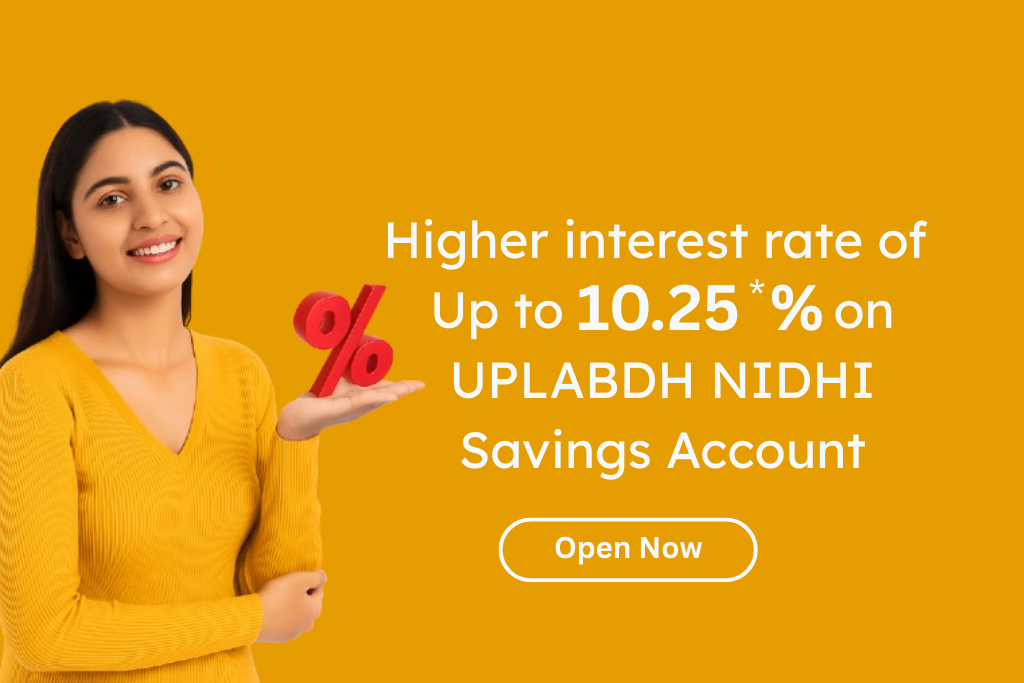
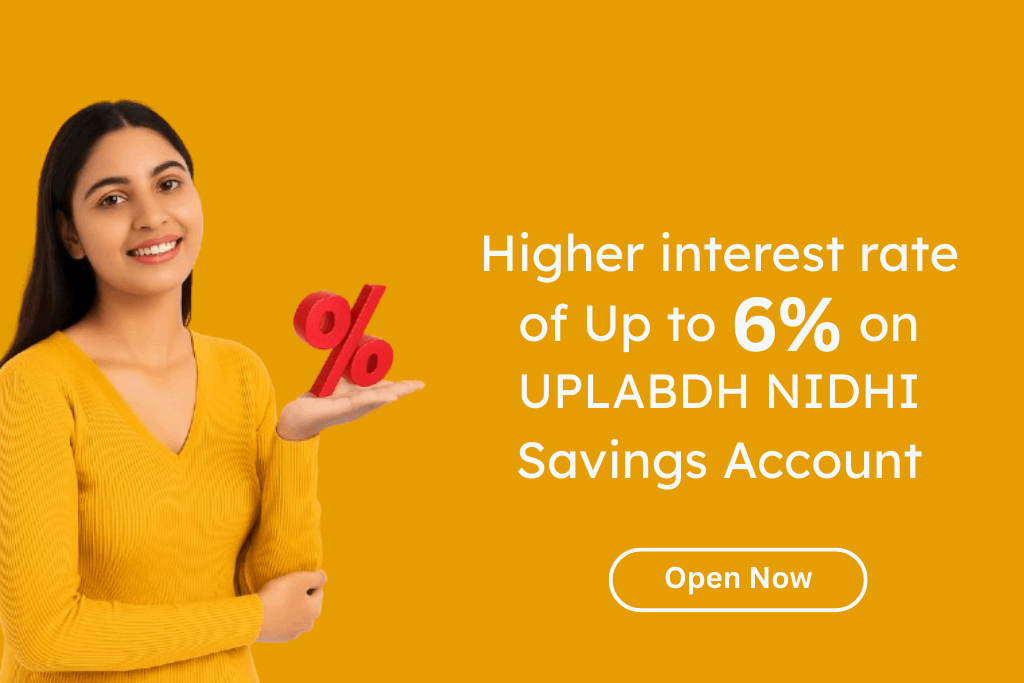
changes

diff --git a/about.html b/about.html
@@ -111,54 +111,6 @@
         <!-- Page Content -->
         <!-- ======= About Us Page ======= -->
 
-
-        <!-- Intro Section -->
-
-
-        <section class="page-header d-flex align-items-center d-none">
-
-            <div class="container">
-                <div class="container pb-4">
-                    <div class="row justify-content-center">
-                        <div class="col-lg-8 text-center">
-                            <h2>What our leader says</h2>
-
-                        </div>
-                    </div>
-                </div>
-                <div class="row justify-content-center align-items-center align-items-center">
-                    <div class="col-md-7 col-lg-5">
-                        <div class="content-container">
-                            <p style="font-style: italic;">"Courage taught me no matter how bad a crisis gets ... any sound
-                                investment will eventually pay off."</p>
-                            <div class="leaderText fw-bold d-lg-block d-none">
-                                <p class="mb-0">Dr. Ram Rekha Nandlal Wadhwa</p>
-                                <p class="mb-0 text-muted">C.E.O.& Director</p>
-    
-                            </div>
-
-                        </div>
-                    </div>
-                    <div class="col-md-6 col-lg-3 text-center">
-                        <div class="img-container">
-                            <div class="img-box ps-1 " style="background-color: var(--accent-color); border-radius: 50%;">
-                                <img src="assets/img/Ram-Wadhwa.jpg" class="img-fluid">
-    
-                            </div>
-
-                        </div>
-
-                    </div>
-
-                    <div class="leaderText fw-bold d-lg-none text-center mt-3">
-                        <p class="mb-0">Dr. Ram Rekha Nandlal Wadhwa</p>
-                        <p class="mb-0 text-muted">C.E.O.& Director</p>
-
-                    </div>
-
-                </div>
-            </div>
-        </section><!-- End Intro Section -->
    <!-- About Section -->
     <section id="about" class="about section">
       <div class="container" data-aos="fade-up" data-aos-delay="100">

diff --git a/net-banking.html b/net-banking.html
@@ -165,15 +165,18 @@
         <div class="login-box">
             <!-- Left -->
             <div class="login-left">
-                <img src="assets/img/Uplabdh--logo.png" class="img-fluid mb-3" style="max-width: 135px;">
+                <a href="index.html">
+                    <img src="assets/img/Uplabdh--logo.png" class="img-fluid mb-3" style="max-width: 135px;">
+
+                </a>
                 <h2>Login</h2>
 
-                <form>
-                    <label for="customer-id">Customer ID</label>
-                    <input type="text" id="customer-id" class="form-control" placeholder="Enter your Customer ID">
+                 <form>
+                    
+                    
 
-                    <label for="username">Username</label>
-                    <input type="text" id="username" class="form-control" placeholder="Enter your username">
+                    <label for="username">Mobile Number</label>
+                    <input type="text" id="username" class="form-control" placeholder="Enter 10 digits mobile no.">
 
                     <label for="password">Password</label>
                     <input type="password" id="password" class="form-control" placeholder="Enter your password">
@@ -185,15 +188,12 @@
                     </div>
 
                     <button class="btn btn-login">Login</button>
-                    <div class="forgot-links mt-3">
-                        <a href="forgot.html">Forgot User Name?</a>
-                        <a href="forgot.html">Forgot Password?</a>
-                    </div>
+                    
                     <div class="mt-3 text-center">
-                        <p class="mb-0">First Time User? <a href="openingAccount.html" class="text-secondary">Register
-                                Now</a></p>
+                        <p class="mb-0">Contact branch if you have forgetten Password</p>
                     </div>
                 </form>
+
             </div>
 
             <!-- Right -->

diff --git a/grievance-redressal.html b/grievance-redressal.html
@@ -216,10 +216,14 @@
             <input type="tel" class="form-control" id="mobileNumber" pattern="[0-9]{10}" required>
             <div class="error-message" id="error-mobileNumber"></div>
           </div>
-
+ <div class="col-md-6">
+            <label for="address" class="form-label form-label-custom">Address</label>
+            <input type="text" class="form-control" id="address" required>
+            <div class="error-message" id="error-address"></div>
+          </div>
           <div class="col-md-6">
             <label for="pincode" class="form-label form-label-custom">Pincode</label>
-            <input type="text" class="form-control" value="462022" id="pincode" pattern="[0-9]{6}" readonly>
+            <input type="text" class="form-control" value="462022" disabled id="pincode" pattern="[0-9]{6}" readonly>
             <div class="error-message" id="error-pincode"></div>
           </div>
 
@@ -247,11 +251,7 @@
             <div class="error-message" id="error-nearestBranch"></div>
           </div>
 
-          <div class="col-md-6">
-            <label for="address" class="form-label form-label-custom">Address</label>
-            <input type="text" class="form-control" id="address" required>
-            <div class="error-message" id="error-address"></div>
-          </div>
+         
 
           <div class="col-12 mt-4">
             <button type="submit" class="btn btn-submit">Submit</button>
